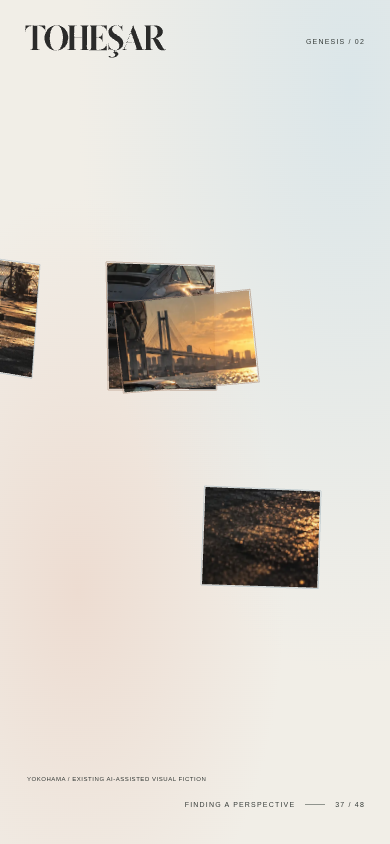
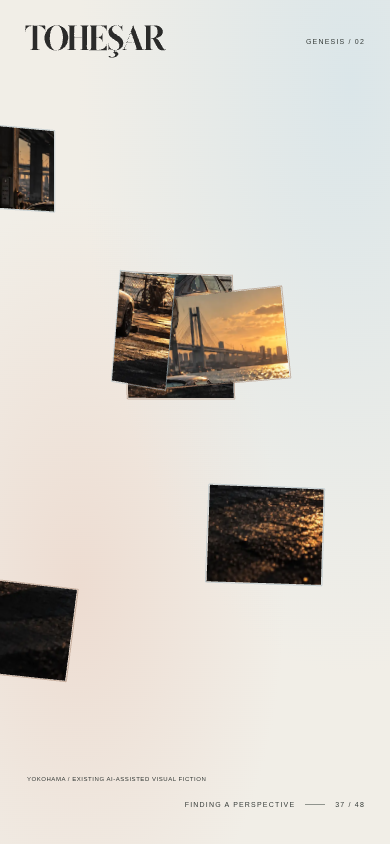
feat(genesis): C04 camera-resolved anamorphic alignment

diff --git a/genesis-01/revelation.js b/genesis-01/revelation.js
@@ -22,19 +22,33 @@ export function createRevelation(scene,request){
  function update(p,camera,anchor,mobile){
   group.visible=p>.285;
   const reveal=smooth(.295,.35,p),spread=smooth(.30,.37,p);
+  // Geometry locks at 40%. Only the camera resolves the projection from 40–43%.
+  const arrange=smooth(.37,.40,p),settle=smooth(.445,.48,p);
   const halfH=Math.tan(THREE.MathUtils.degToRad(camera.fov/2))*6;
-  const width=mobile?halfH*camera.aspect*1.64:halfH*1.2;
+  const halfW=halfH*camera.aspect;
+  const width=mobile?halfW*1.64:halfH*1.2;
   const height=width*1050/850;
+  let error=0,minZ=Infinity,maxZ=-Infinity;
+  camera.updateMatrixWorld();
   for(let i=0;i<fragments.length;i++){
    const {tile,region:r,depth}=fragments[i], [x,y,w,h]=r;
    const cx=(x+w/2-.5)*width,cy=(.5-y-h/2)*height+halfH*.14;
-   const d=depth/6;
-   tile.position.set(anchor.x+cx*d+Math.sin(i*2.4)*.9*spread,anchor.y+cy*d+Math.cos(i*1.8)*.7*spread,-5-depth);
-   tile.scale.set(width*w*d*(.22+.78*spread),height*h*d*(.22+.78*spread),1);
-   tile.rotation.set(.14*Math.sin(i*2)*spread,.45*Math.cos(i*2.3)*spread,.13*Math.sin(i)*spread);
-   tile.material.opacity=reveal*.94;
+   const distance=mix(depth,5.4,settle),ratio=distance/6;
+   const scatterX=Math.sin(i*2.4)*(mobile?.46:.9)*spread*(1-arrange);
+   const scatterY=Math.cos(i*1.8)*.62*spread*(1-arrange);
+   // Back-project each crop from the same reference camera, at unequal depths.
+   tile.position.set(anchor.x+cx*ratio+scatterX,anchor.y+cy*ratio+scatterY,-5-distance);
+   tile.scale.set(width*w*ratio*(.22+.78*spread)*.993,height*h*ratio*(.22+.78*spread)*.993,1);
+   tile.rotation.set(.14*Math.sin(i*2)*spread*(1-arrange),.45*Math.cos(i*2.3)*spread*(1-arrange),.13*Math.sin(i)*spread*(1-arrange));
+   tile.material.opacity=reveal;
+   tile.updateMatrixWorld();
+   const screen=tile.position.clone().project(camera);
+   error=Math.max(error,Math.hypot(screen.x-cx/halfW,screen.y-cy/halfH));
+   minZ=Math.min(minZ,tile.position.z);maxZ=Math.max(maxZ,tile.position.z);
   }
-  inspection.depthRange=Math.max(...depths)-Math.min(...depths);
+  inspection.alignmentError=error;inspection.depthRange=maxZ-minZ;
+  inspection.geometryLocked=p>=.40&&p<=.445;
  }
+
  return {update,inspection,fragments,get ready(){return ready;}};
 }

diff --git a/genesis-01/src.js b/genesis-01/src.js
@@ -143,7 +143,8 @@ function pose(p){
  camera.lookAt(camera.position.x,camera.position.y,-8);
  const scatter=ease(.30,.37,p),arrive=ease(.37,.43,p);
  if(p>.30){
-  camera.position.set(sculpture.position.x+Math.sin(Math.PI*scatter)*.7+(1-arrive)*scatter*.9,sculpture.position.y+.18*scatter*(1-arrive),THREE.MathUtils.lerp(-.85,-3.3,scatter)-arrive*1.7);
+  camera.position.set(sculpture.position.x+Math.sin(Math.PI*scatter)*.4+(1-arrive)*scatter*(mobile?.45:.9),sculpture.position.y+.18*scatter*(1-arrive),THREE.MathUtils.lerp(-.85,-3.3,scatter)-arrive*1.7);
+  camera.position.x+=ease(.445,.48,p)*.09;
   camera.lookAt(camera.position.x,camera.position.y,-16);
  }
  films.forEach((film,i)=>{const side=i%2?-1:1;film.position.set(side*scatter*(1.1+i*.17),scatter*(i-2)*.3,-scatter*.5);filmEdges[i].position.copy(film.position);});

diff --git a/genesis-01/PROGRESS.md b/genesis-01/PROGRESS.md
@@ -6,3 +6,5 @@
 - No production deployment. All changes confined to `genesis-01/`.
 
 - C03: Scene 03 geometry implemented: seven UV fragments of the existing YOKOHAMA portrait at different physical depths, film walls opening into the fragment field, camera continuation to 48%. Source JSON and visible AI-assisted visual-fiction disclosure added. 37% rendered without JS errors. Anamorphic alignment remains the next checkpoint; current fragments are intentionally scattered.
+
+- C04: True perspective anamorphosis implemented. Seven crops sit at depths spanning 3.6 world units. Geometry locks from 40–44.5%; camera-only motion resolves the image at 43%. Measured center projection error: 0.4543 NDC at 40%, approximately 2e-16 at 43%. The 43% and 48% images were rendered and visually inspected. Final layers converge into a quiet editorial plane; this is still Scene 03, not a Journal build.
